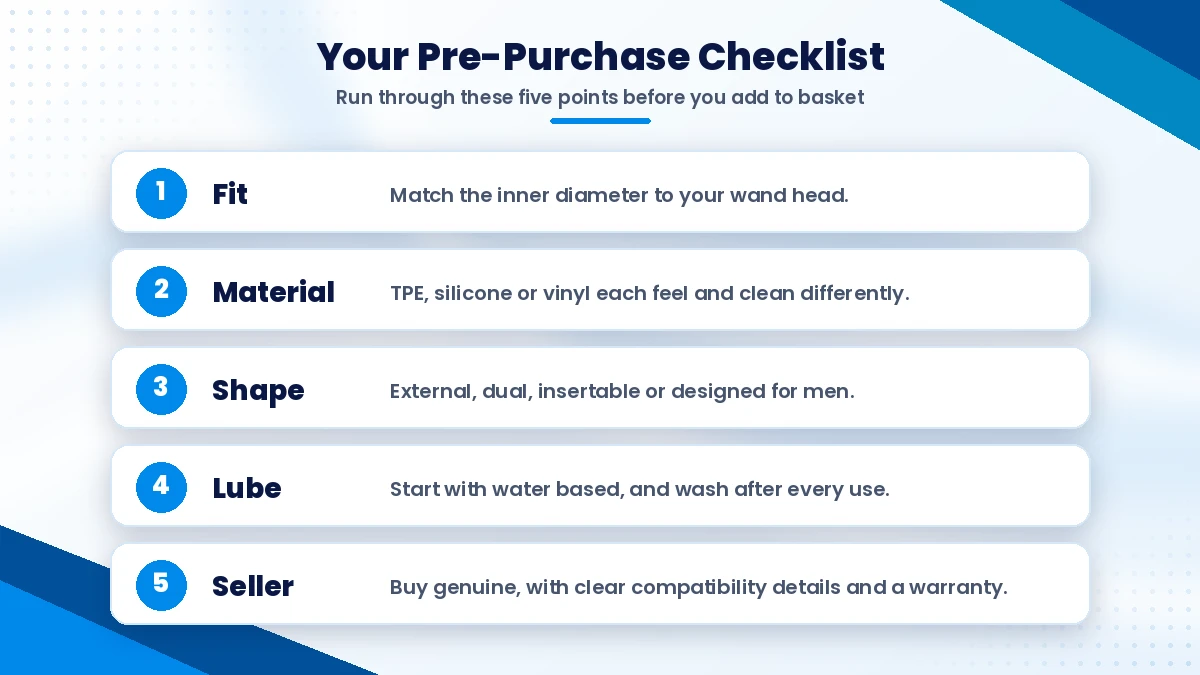
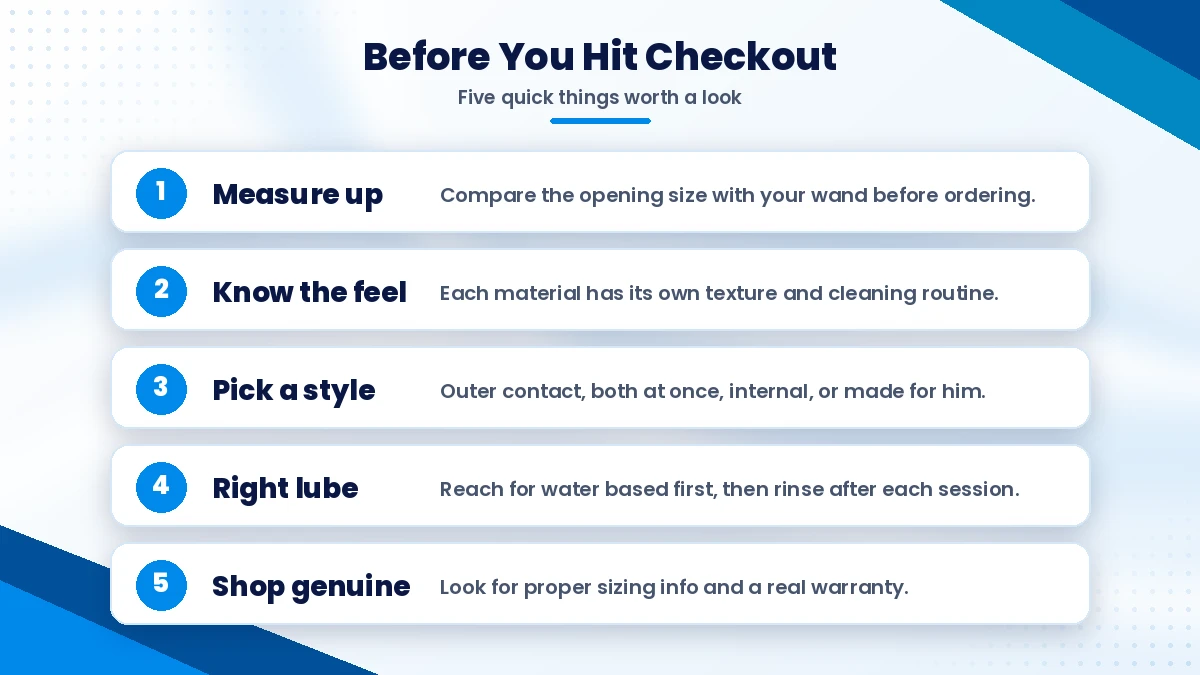
Reword wand attachment graphics so text doesn't duplicate the article; fix wand orientation
Claude-Session: https://claude.ai/code/session_012iSs7UT5B2wZwFj8sHQe5L

diff --git a/blog-images/how-to-choose-a-wand-attachment/src/mw_choose.py b/blog-images/how-to-choose-a-wand-attachment/src/mw_choose.py
@@ -101,13 +101,13 @@ def wrap(d, text, font, width):
 
 
 # ---------- 1. pre-purchase checklist ----------
-im = canvas('Your Pre-Purchase Checklist', 'Run through these five points before you add to basket')
+im = canvas('Before You Hit Checkout', 'Five quick things worth a look')
 checks = [
-    ('Fit', 'Match the inner diameter to your wand head.'),
-    ('Material', 'TPE, silicone or vinyl each feel and clean differently.'),
-    ('Shape', 'External, dual, insertable or designed for men.'),
-    ('Lube', 'Start with water based, and wash after every use.'),
-    ('Seller', 'Buy genuine, with clear compatibility details and a warranty.'),
+    ('Measure up', 'Compare the opening size with your wand before ordering.'),
+    ('Know the feel', 'Each material has its own texture and cleaning routine.'),
+    ('Pick a style', 'Outer contact, both at once, internal, or made for him.'),
+    ('Right lube', 'Reach for water based first, then rinse after each session.'),
+    ('Shop genuine', 'Look for proper sizing info and a real warranty.'),
 ]
 y = 150
 for i, (t, body) in enumerate(checks):
@@ -116,12 +116,12 @@ for i, (t, body) in enumerate(checks):
     d.ellipse((136, y + 18, 186, y + 68), fill=BLUE)
     centered(d, 161, y + 22, str(i + 1), fX(26), WHITE)
     d.text((212, y + 24), t, font=fX(28), fill=NAVY)
-    d.text((390, y + 31), body, font=fS(20), fill=GREY)
+    d.text((440, y + 31), body, font=fS(20), fill=GREY)
     y += 98
 save(im, 'wand-attachment-pre-purchase-checklist')
 
 # ---------- 2. standard head or compact ----------
-im = canvas('Standard Head or Compact?', 'Most attachments are sized for full-size wand heads')
+im = canvas('Full-Size Head or Compact?', 'Know your wand before you shop for add-ons')
 wands = [
     ('mw1.jpg', 'Rechargeable', '£159.95', True), ('mwp.jpg', 'Plus', '£129.95', True),
     ('mwm5.jpg', 'Mini', '£94.95', False), ('mwu2.jpg', 'Micro', '£64.95', False),
@@ -133,7 +133,7 @@ for i, (f, name, price, std) in enumerate(wands):
     card(im, (x, 146, x + cw, 566))
     d = ImageDraw.Draw(im)
     o = cutout(P + f, 60)
-    o = o.rotate(90 if o.width > o.height else 0, resample=Image.BICUBIC, expand=True)
+    o = o.rotate(-90 if o.width > o.height else 0, resample=Image.BICUBIC, expand=True)
     o = fit(o.crop(o.getbbox()), h=210 if std else 145, w=cw - 70)
     im.alpha_composite(o, (x + (cw - o.width) // 2, 375 - o.height))
     d = ImageDraw.Draw(im)
@@ -141,23 +141,23 @@ for i, (f, name, price, std) in enumerate(wands):
     centered(d, x + cw / 2, 416, name, fX(26), NAVY)
     centered(d, x + cw / 2, 456, price, fB(20), BLUE)
     col = GREEN if std else AMBER
-    tag = 'Standard head' if std else 'Smaller head'
+    tag = 'Full-size head' if std else 'Compact head'
     tw = d.textlength(tag, font=fB(17))
     d.rounded_rectangle((x + cw / 2 - tw / 2 - 16, 504, x + cw / 2 + tw / 2 + 16, 542), 19, fill=col)
     centered(d, x + cw / 2, 511, tag, fB(17), WHITE)
 d = ImageDraw.Draw(im)
-centered(d, W / 2, 590, 'Standard head: still check each attachment listing before ordering.', fS(19), GREY)
-centered(d, W / 2, 620, 'Smaller head: contact the team first to confirm a fit.', fB(19), NAVY)
+centered(d, W / 2, 590, 'Full-size head: give each product page a quick check anyway.', fS(19), GREY)
+centered(d, W / 2, 620, 'Mini or Micro? Message the team first and they will confirm.', fB(19), NAVY)
 save(im, 'wand-attachment-standard-vs-compact')
 
 # ---------- 3. style finder ----------
-im = canvas('Pick a Style That Suits You', 'A few popular options from the range')
+im = canvas('Find Your Favourite', 'Popular picks from the attachment range')
 styles = [
-    ('lily3.webp', 'Lily Pod', 'External, textured', 'TPE', '£39.95'),
-    ('rt3.webp', 'Rabbit Tip', 'Dual stimulation', 'TPE', '£49.95'),
-    ('eu2.webp', 'Euphoria', 'Dual stimulation', 'Silicone', '£59.95'),
-    ('twin.jpg', 'Twin Turbo', 'Designed for men', '2 in 1 stroker', '£49.95'),
-    ('assist.jpg', 'Wand Assist', 'Hands-free holder', 'Gooseneck', '£89.95'),
+    ('lily3.webp', 'Lily Pod', 'Textured outer cup', 'TPE', '£39.95'),
+    ('rt3.webp', 'Rabbit Tip', 'Inner and outer', 'TPE', '£49.95'),
+    ('eu2.webp', 'Euphoria', 'Two-petal design', 'Silicone', '£59.95'),
+    ('twin.jpg', 'Twin Turbo', 'Made for him', 'Double stroker', '£49.95'),
+    ('assist.jpg', 'Wand Assist', 'Holds the wand for you', 'Gooseneck', '£89.95'),
 ]
 cw, gap = 196, 18
 x0 = (W - (5 * cw + 4 * gap)) // 2
@@ -177,6 +177,6 @@ for i, (f, name, use, mat, price) in enumerate(styles):
     d.rounded_rectangle((x + cw / 2 - tw / 2 - 18, 522, x + cw / 2 + tw / 2 + 18, 564), 21, fill=BLUE)
     centered(d, x + cw / 2, 530, price, fB(19), WHITE)
 d = ImageDraw.Draw(im)
-centered(d, W / 2, 612, 'New to attachments? Start with one style and see how you get on.', fS(18), GREY)
+centered(d, W / 2, 612, 'First time? One attachment is plenty to begin with.', fS(18), GREY)
 save(im, 'wand-attachment-style-finder')
 print('done')
